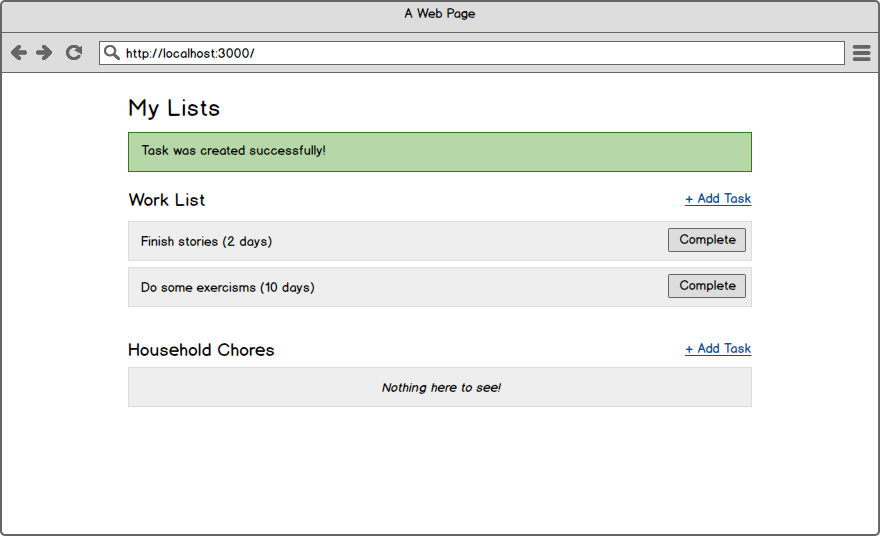
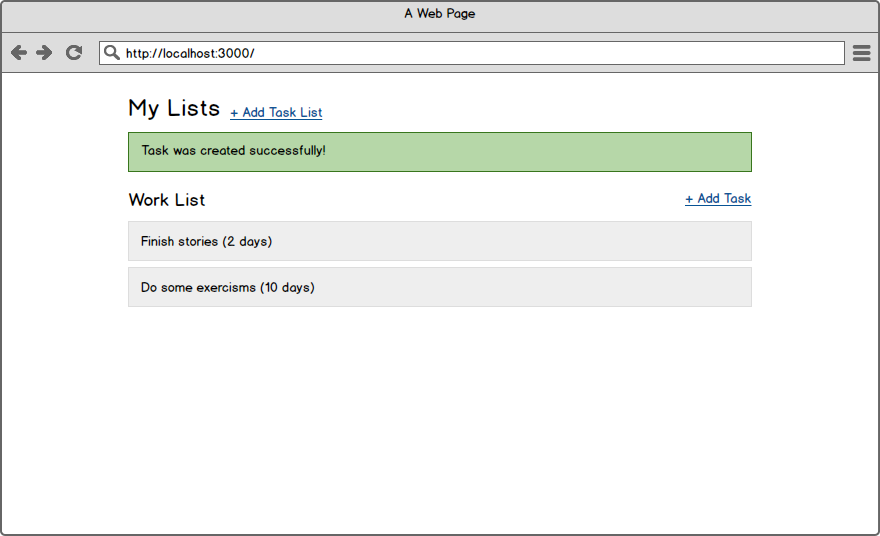
Added index mockup for user can add task

diff --git a/README.md b/README.md
@@ -73,6 +73,7 @@ And I should see a flash message that reads "Task was created successfully!"
 Each task should have the due date represented in relative time
 ```
 
+<img src="project/05-index.png">
 <img src="project/05-new-task.png">
 <img src="project/05-new-task-flash.png">
 
